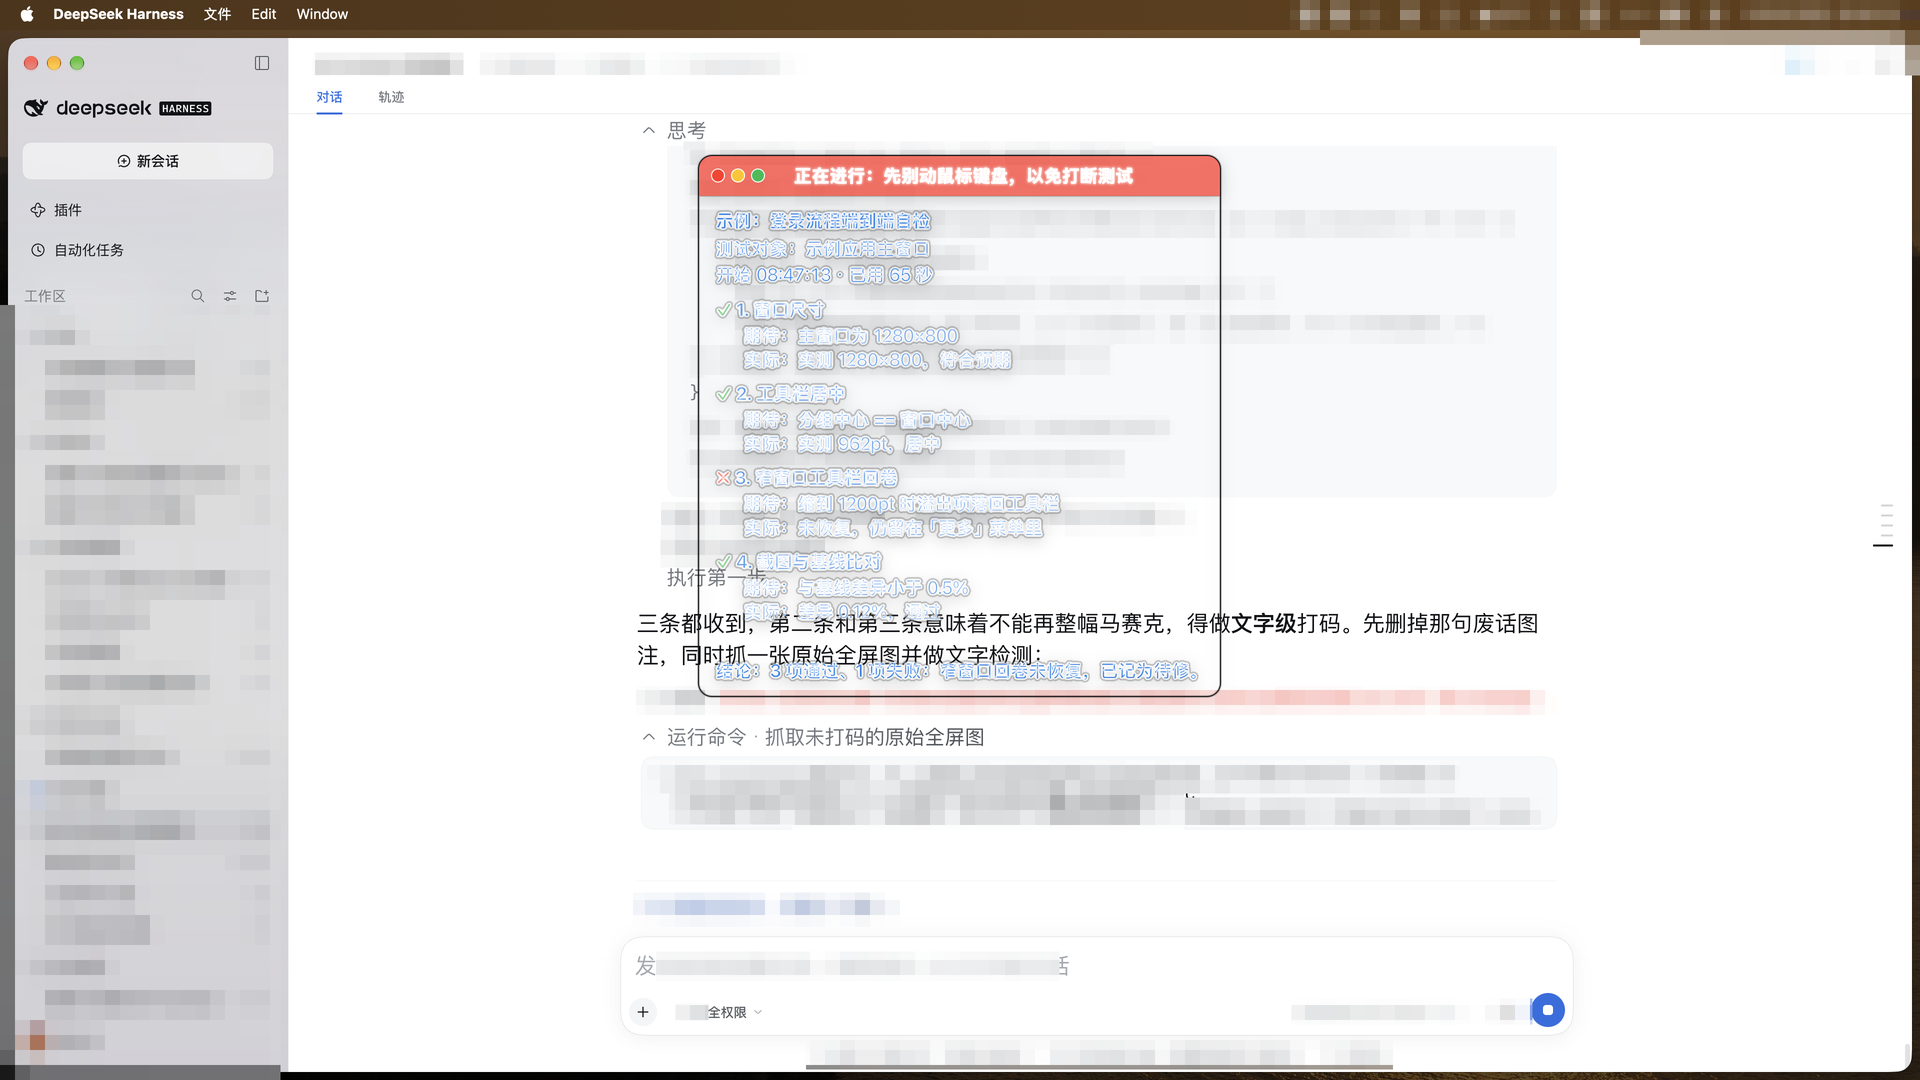
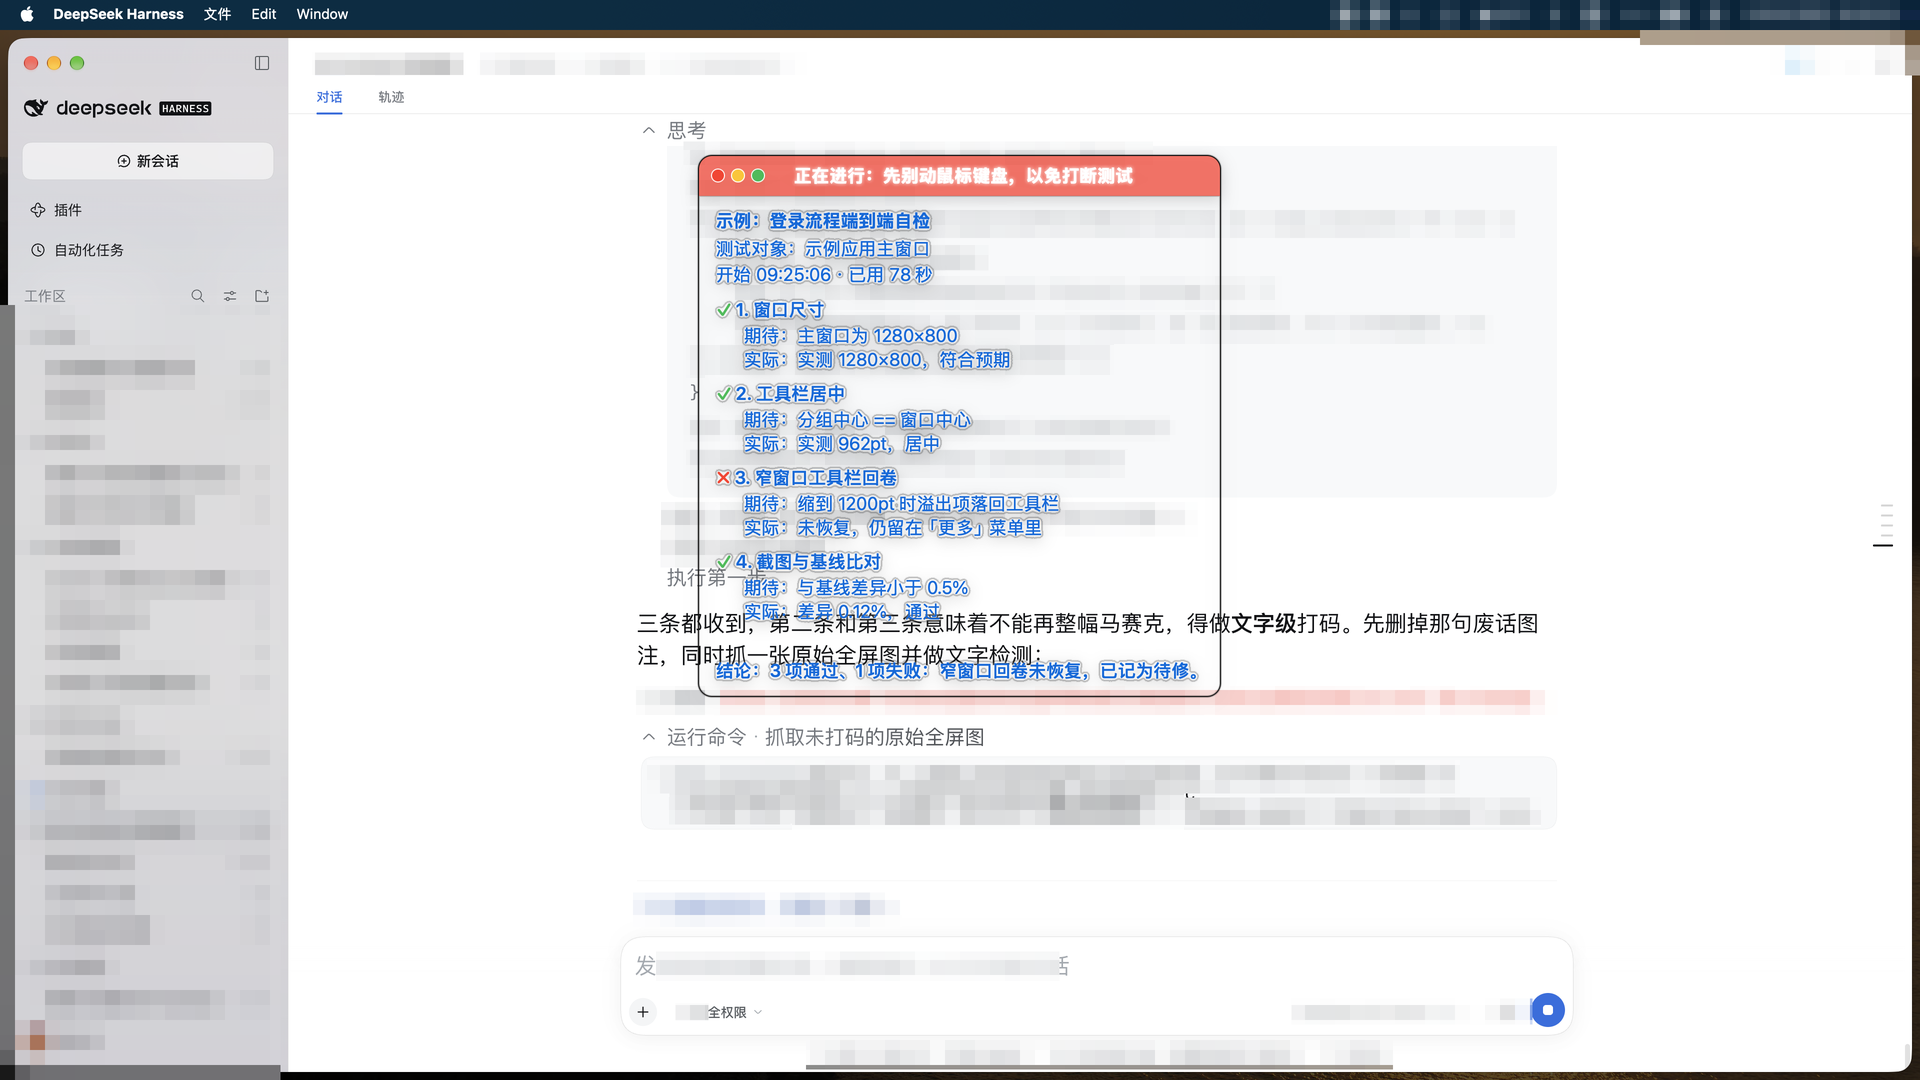
去掉文字描边，改用柔光阴影（清晰与美观兼顾）
用户反馈描边效果难看。做了三方案实拍对比（描边+阴影 / 纯阴影 4 / 纯阴影 7）：
- 描边会让 18pt 的中文字形发胖、边缘发脏（负值 strokeWidth 在填充之外又描一圈）
- 纯阴影 4 字形干净，柔和光晕同样能把压在字下的背景笔画推开，可辨识度不差
- 纯阴影 7 更清楚但白雾感偏重

据此：strokeWidthPercent 默认改为 0（描边能力保留，设负值即启用），textShadowBlur 定为 4。
白底黑字 / 黑底白字两个场景复验通过，展示图重拍；README 中英与 STATUS 同步

Changed region(s): [[0.375, 0.1833, 0.5625, 0.5806], [0.0, 0.0, 1.0, 0.0306], [0.375, 0.6111, 0.625, 0.6417]]

diff --git a/hud/testhud.swift b/hud/testhud.swift
@@ -125,17 +125,19 @@ private enum Look {
         if let s = ProcessInfo.processInfo.environment["DSH_TESTHUD_STROKE"], let v = Double(s) {
             return CGFloat(v)
         }
-        // **-2.5 是实测的上限**：绝对值再大，描边就会反过来啃掉填充，字越描越细
-        // （-6 时整行文字淡得像重影）。真正拉开层次的是下面那圈阴影。
-        return -2.5
+        // **默认 0：不用描边。** 三种方案实拍对比过（描边+阴影 / 纯阴影 4 / 纯阴影 7）：
+        // 描边会让 18pt 的中文字形发胖、边缘发脏（`strokeWidth` 负值在填充之外又描一圈），
+        // 纯阴影既干净又能把背景笔画推开。能力留着（设成负值即可启用），但默认关。
+        return 0
     }()
 
     /// 文字阴影的模糊半径（0 = 不要阴影）。阴影色取"背景那一极"，四周均匀、无方向。
+    /// **4 是实拍选出来的平衡点**：3 时推不开密集背景字，7 时白雾感偏重。
     static let textShadowBlur: CGFloat = {
         if let s = ProcessInfo.processInfo.environment["DSH_TESTHUD_SHADOW"], let v = Double(s) {
             return CGFloat(v)
         }
-        return 3
+        return 4
     }()
 
     /// 面板底的**不透明度下限**（只在 `transparentPanel == false` 时起作用）。
@@ -839,12 +841,16 @@ final class HUD: NSObject, NSApplicationDelegate {
         guard Look.transparentPanel, s.length > 0 else { return s }
         let m = NSMutableAttributedString(attributedString: s)
         let full = NSRange(location: 0, length: m.length)
-        m.addAttribute(.strokeWidth, value: Look.strokeWidthPercent, range: full)
-        // 描边色与阴影色都取**背景那一极**（浅色系白、深色系黑）。它们与背景融为一体，
-        // 效果是把压在文字底下的背景笔画"推开"，文字本身反而更清楚 —— 比让描边与文字反色更有效：
-        // 与文字反色的描边会在白底上变成一圈黑、跟背景的黑字连成一片。
+        // 阴影色取**背景那一极**（浅色系白、深色系黑）：它与背景融为一体，作用是把压在文字底下的
+        // 背景笔画"推开"。比让描边与文字反色更有效 —— 与文字反色的描边会在白底上变成一圈黑、
+        // 跟背景的黑字连成一片。
         let opposite = backdrop > 0.60 ? ApplePalette.white : ApplePalette.black
-        m.addAttribute(.strokeColor, value: opposite, range: full)
+        // 描边默认关闭（`strokeWidthPercent = 0`）：它会让字形发胖、边缘发脏，实拍对比后弃用。
+        // 想启用就把常量设成负值（负值 = 填充 + 描边）。
+        if Look.strokeWidthPercent != 0 {
+            m.addAttribute(.strokeWidth, value: Look.strokeWidthPercent, range: full)
+            m.addAttribute(.strokeColor, value: opposite, range: full)
+        }
         if Look.textShadowBlur > 0 {
             let shadow = NSShadow()
             shadow.shadowColor = opposite.withAlphaComponent(0.9)

diff --git a/README.md b/README.md
@@ -109,15 +109,15 @@ The height has a ceiling, so with enough content the upper part is pushed outsid
 | Panel ground | **fully transparent** | **fully transparent** |
 | Border (1.0 pt, `Look.panelBorderWidth`) | black `#000000` | white `#FFFFFF` |
 | Text (title / step name / conclusion / expect / actual — **one colour**) | Apple blue `#0071E3` | bright blue `#2997FF` |
-| Text stroke (`Look.strokeWidthPercent`) | white | black |
 | Text shadow (`Look.textShadowBlur`, even on all sides) | white | black |
+| ~~Text stroke~~ | off by default (`strokeWidthPercent = 0`) | same |
 | Step marks | ✓ `#34C759` / ✗ `#FF3B30` / ⏳ `#FF9500` / • same as body | same |
 
 **Why the body text is blue and not black/white**: the backdrop itself is usually black or white text, so a black/white panel would leave the two layers distinguishable only by their stroke — hard to read over dense text (measured). With blue, the **colour** dimension separates the layers. Hierarchy no longer rides on grey levels: it is all font weight (one size, four weights).
 
 **Exception**: when the backdrop is **itself coloured** (a whole page of site blue, say) or is **a neutral mid grey**, the body switches to whichever of black/white has the higher contrast — blue on a blue backdrop blurs into it (it became unreadable in testing), and blue on mid grey only reaches 2.5:1; black/white also happens to be the opposite of the backdrop's own text in those two cases.
 
-**The stroke and the shadow both take "the backdrop's pole"** (white in the light scheme, black in the dark one): they blend into the backdrop, and their job is to push the backdrop's own strokes out from under the panel's letters. Note that `strokeWidth`'s absolute value **must stay small** — a large one makes the stroke eat the fill and the glyphs get thinner (`-2.5%` is the measured ceiling).
+**The shadow takes "the backdrop's pole"** (white in the light scheme, black in the dark one): it blends into the backdrop, and its job is to push the backdrop's own strokes out from under the panel's letters. **The stroke is off by default** (`strokeWidthPercent = 0`) — three variants were compared side by side: a stroke makes 18 pt glyphs look fat and grubby, whereas a pure shadow stays clean and reads just as well. The capability is kept (set a negative value to enable it).
 
 The band ignores the light/dark split and follows the state: **running = red `#FF3B30` + white text**, **done = green `#34C759` + black text**; the band's opacity is **0.75**. The three traffic lights are swatch values too (red `#FF3B30`, yellow `#FFCC00`, green `#34C759`) with a 1.0 pt white stroke. **The band is the only opaque piece left.**
 

diff --git a/README.zh.md b/README.zh.md
@@ -109,15 +109,15 @@ testhud status
 | 主体背景 | **纯透明** | **纯透明** |
 | 边框（1.0 点，`Look.panelBorderWidth`） | 纯黑 `#000000` | 纯白 `#FFFFFF` |
 | 文字（标题 / 步骤名 / 结论 / 期待 / 实际，**同一颜色**） | 苹果蓝 `#0071E3` | 亮蓝 `#2997FF` |
-| 文字描边（`Look.strokeWidthPercent`） | 纯白 | 纯黑 |
 | 文字阴影（`Look.textShadowBlur`，四周均匀） | 纯白 | 纯黑 |
+| ~~文字描边~~ | 默认关闭（`strokeWidthPercent = 0`） | 同左 |
 | 步骤行首符号 | ✓ `#34C759` ／ ✗ `#FF3B30` ／ ⏳ `#FF9500` ／ • 同正文色 | 同左 |
 
 **正文为什么取蓝、不取黑/白**：背景本身往往就是黑字或白字，浮层文字若也用黑/白，两层字就只能靠描边区分，在密集文字背景上辨认很吃力（实测结论）。换成色板里的蓝之后，**颜色**这一维就把两层分开了。层次**不再靠灰度**，全部交给字重（同一字号、四档字重）。
 
 **例外**：背景**本身带颜色**（例如整片站点蓝）或**是中性中灰**时，正文改用黑/白里对比更高的那一极 —— 蓝字压在蓝底上会糊成一片（实测认不出来），中灰上蓝字的对比也只有 2.5:1；而这两种情况下黑/白正好与背景文字相反。
 
-**描边和阴影都取"背景那一极"**（浅色系白、深色系黑）：它们与背景融为一体，作用是把压在文字底下的背景笔画"推开"。注意 `strokeWidth` 的绝对值**不能大** —— 绝对值一大，描边会反过来啃掉填充，字越描越细（`-2.5%` 是实测上限）。
+**阴影取"背景那一极"**（浅色系白、深色系黑）：它与背景融为一体，作用是把压在文字底下的背景笔画"推开"。**描边默认关闭**（`strokeWidthPercent = 0`）—— 三种方案实拍对比过：描边会让 18pt 的中文字形发胖、边缘发脏，而纯阴影既干净、可辨识度也不差；能力留着（设成负值即启用）。
 
 色带**与浅深档无关**，按状态取色板红 / 绿：**进行中 = 红 `#FF3B30` + 白字**、**已结束 = 绿 `#34C759` + 黑字**；色带不透明度 **0.75**。三个圆点也取色板值（红 `#FF3B30` / 黄 `#FFCC00` / 绿 `#34C759`），配 1.0 点纯白描边。**色带是面板上唯一仍不透明的一块。**
 
